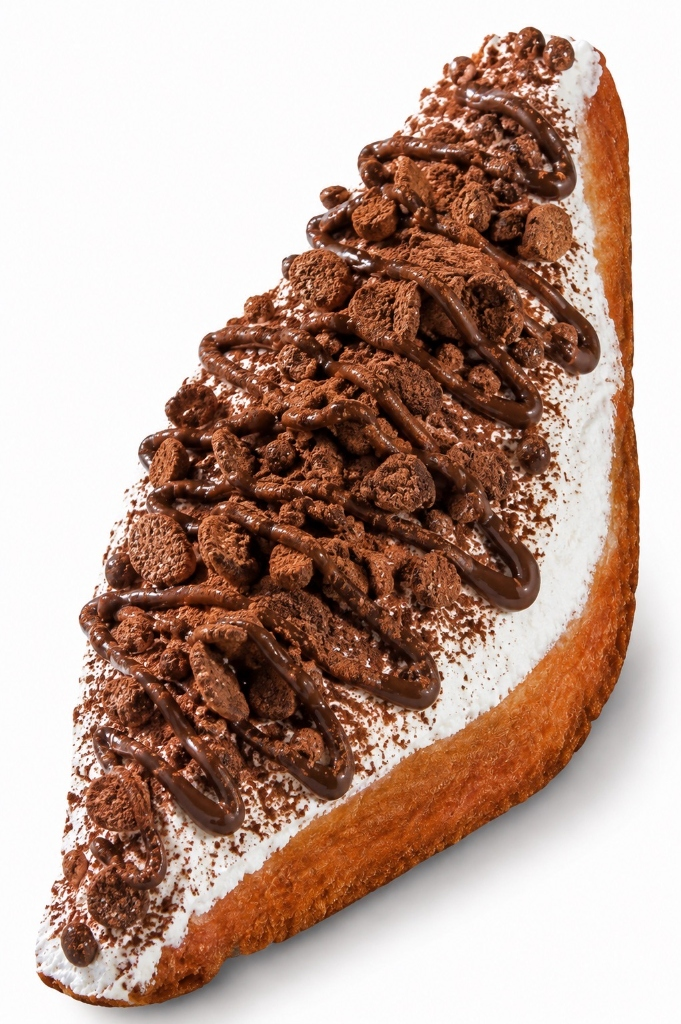
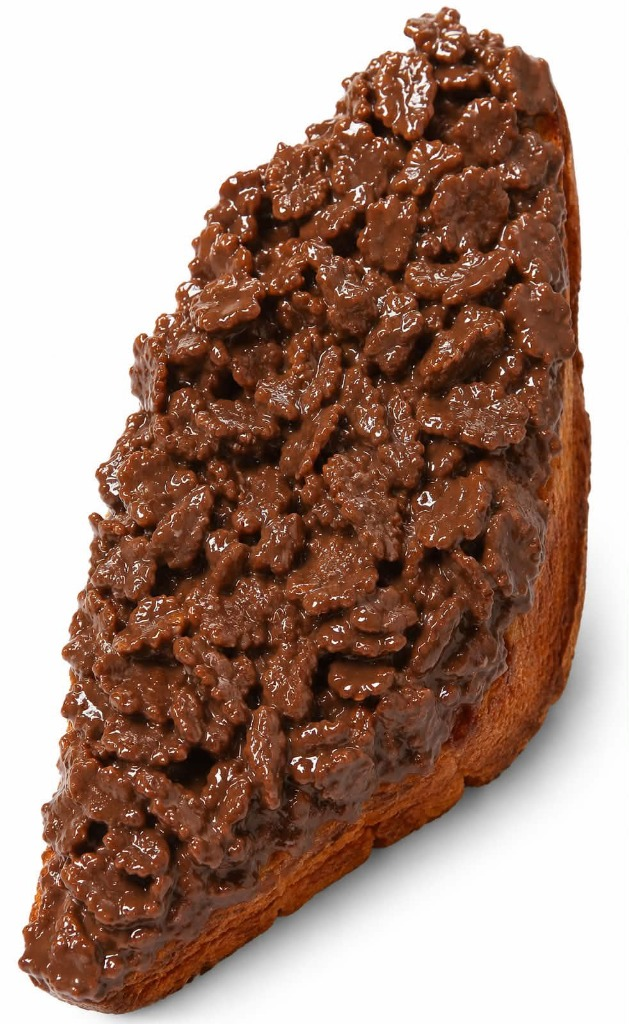
Update studio photos for chocolate & choc-crunchy, add matcha-strawberry menu (40B)

diff --git a/admin.html b/admin.html
@@ -122,13 +122,14 @@ const MENU_ITEMS=[
   {name:"คัสตาร์ดหน้าไหม้",emoji:"🍮"},
   {name:"ช็อกกล้วย",emoji:"🍌"},
   {name:"ครีมสตรอเบอรี่",emoji:"🍓"},
+  {name:"ช็อกสตรอ",emoji:"🍓"},
+  {name:"มัทฉะสตอ",emoji:"🍓"},
   {name:"ช็อกโกแลตดูไบ",emoji:"💚"},
   {name:"บิสคอฟครันชี่",emoji:"🍪"},
   {name:"Shine Muscat Yogurt",emoji:"🍇"},
   {name:"Mallow Melt",emoji:"🔥"},
   {name:"โอริโอ้",emoji:"🍪"},
-  {name:"ช็อกครันชี่",emoji:"🍫"},
-  {name:"ช็อกสตรอ",emoji:"🍓"},
+  {name:"ช็อกครั้นชี่",emoji:"🍫"},
   {name:"Mint Chocolate",emoji:"🍃"},
 ];
 let _ac=null; // audio context สำหรับเสียงแจ้งเตือน
@@ -163,7 +164,14 @@ function thaiDate(){return new Date(Date.now()+7*3600*1000).toISOString().slice(
 const dateEl=document.getElementById('date');
 
 let rows=[]; let menuAvail={};
-function isAvail(name){ return menuAvail[name]!==false; } // ไม่มี row = พร้อมขาย
+function isAvail(name){
+  if (name === "ช็อกครั้นชี่") {
+    if (menuAvail["ช็อกครั้นชี่"] !== undefined) return menuAvail["ช็อกครั้นชี่"] !== false;
+    if (menuAvail["ช็อกครันชี่"] !== undefined) return menuAvail["ช็อกครันชี่"] !== false;
+    return true;
+  }
+  return menuAvail[name]!==false;
+} // ไม่มี row = พร้อมขาย
 async function load(){
   const d=dateEl.value||thaiDate();
   const [o,ms]=await Promise.all([
@@ -192,8 +200,13 @@ function renderMenuPanel(){
 async function toggleMenu(name){
   const prev=isAvail(name);
   const next=!prev;
-  menuAvail[name]=next; renderMenuPanel();
+  menuAvail[name]=next;
+  if(name==="ช็อกครั้นชี่") menuAvail["ช็อกครันชี่"]=next;
+  renderMenuPanel();
   const {error}=await supa.from('menu_state').upsert({item:name,available:next,updated_at:new Date().toISOString()},{onConflict:'item'});
+  if(name==="ช็อกครั้นชี่"){
+    await supa.from('menu_state').upsert({item:"ช็อกครันชี่",available:next,updated_at:new Date().toISOString()},{onConflict:'item'});
+  }
   if(error){alert('เปลี่ยนสถานะเมนูไม่สำเร็จ: '+error.message+'\n(ยังไม่ได้รัน schema-v5.sql ใน Supabase?)'); menuAvail[name]=prev; renderMenuPanel();}
 }
 function fmtTime(ts){return new Date(ts).toLocaleTimeString('th-TH',{hour:'2-digit',minute:'2-digit',timeZone:'Asia/Bangkok'});}

diff --git a/index-v2.html b/index-v2.html
@@ -310,13 +310,14 @@ const MENU=[
     {name:"คัสตาร์ดหน้าไหม้", price:40, emoji:"🍮", img:"assets/menu/custard.jpg"},
     {name:"ช็อกกล้วย", price:40, emoji:"🍌", img:"assets/menu/chocbanana.jpg"},
     {name:"ครีมสตรอเบอรี่", price:40, emoji:"🍓", img:"assets/menu/strawberry.jpg"},
+    {name:"ช็อกสตรอ", price:40, emoji:"🍓", tag:"ใหม่", img:"assets/menu/choc-straw.jpg"},
+    {name:"มัทฉะสตอ", price:40, emoji:"🍓", tag:"ใหม่", img:"assets/menu/matcha-straw.jpg"},
     {name:"ช็อกโกแลตดูไบ", price:50, emoji:"💚", tag:"ใหม่", img:"assets/menu/dubai.jpg"},
     {name:"บิสคอฟครันชี่", price:40, emoji:"🍪", tag:"ใหม่", img:"assets/menu/biscoff.jpg"},
     {name:"Shine Muscat Yogurt", price:45, emoji:"🍇", tag:"ใหม่", img:"assets/menu/shine-muscat.jpg"},
     {name:"Mallow Melt", price:45, emoji:"🔥", tag:"ใหม่", img:"assets/menu/mallow-melt.jpg"},
     {name:"โอริโอ้", price:40, emoji:"🍪", tag:"ใหม่", img:"assets/menu/oreo.jpg"},
-    {name:"ช็อกครันชี่", price:40, emoji:"🍫", tag:"ใหม่", img:"assets/menu/choc-crunchy.jpg"},
-    {name:"ช็อกสตรอ", price:40, emoji:"🍓", tag:"ใหม่", img:"assets/menu/choc-straw.jpg"},
+    {name:"ช็อกครั้นชี่", price:40, emoji:"🍫", tag:"ใหม่", img:"assets/menu/choc-crunchy.jpg"},
     {name:"Mint Chocolate", price:45, emoji:"🍃", tag:"ใหม่", img:"assets/menu/mint-chocolate.jpg"},
   ]},
 ];
@@ -330,7 +331,14 @@ const ZONES=[
   {label:"หอพักข้างมอ/รพ.กำแพงแสน", fee:30},
 ];
 const qty={}; let slipFile=null; let menuAvail={};
-function isAvail(name){ return menuAvail[name]!==false; } // ไม่มี row = พร้อมขาย
+function isAvail(name){
+  if (name === "ช็อกครั้นชี่") {
+    if (menuAvail["ช็อกครั้นชี่"] !== undefined) return menuAvail["ช็อกครั้นชี่"] !== false;
+    if (menuAvail["ช็อกครันชี่"] !== undefined) return menuAvail["ช็อกครันชี่"] !== false;
+    return true;
+  }
+  return menuAvail[name]!==false;
+} // ไม่มี row = พร้อมขาย
 
 // zone select
 const zoneEl=document.getElementById('f-zone');

diff --git a/index.html b/index.html
@@ -310,13 +310,14 @@ const MENU=[
     {name:"คัสตาร์ดหน้าไหม้", price:40, emoji:"🍮", img:"assets/menu/custard.jpg"},
     {name:"ช็อกกล้วย", price:40, emoji:"🍌", img:"assets/menu/chocbanana.jpg"},
     {name:"ครีมสตรอเบอรี่", price:40, emoji:"🍓", img:"assets/menu/strawberry.jpg"},
+    {name:"ช็อกสตรอ", price:40, emoji:"🍓", tag:"ใหม่", img:"assets/menu/choc-straw.jpg"},
+    {name:"มัทฉะสตอ", price:40, emoji:"🍓", tag:"ใหม่", img:"assets/menu/matcha-straw.jpg"},
     {name:"ช็อกโกแลตดูไบ", price:50, emoji:"💚", tag:"ใหม่", img:"assets/menu/dubai.jpg"},
     {name:"บิสคอฟครันชี่", price:40, emoji:"🍪", tag:"ใหม่", img:"assets/menu/biscoff.jpg"},
     {name:"Shine Muscat Yogurt", price:45, emoji:"🍇", tag:"ใหม่", img:"assets/menu/shine-muscat.jpg"},
     {name:"Mallow Melt", price:45, emoji:"🔥", tag:"ใหม่", img:"assets/menu/mallow-melt.jpg"},
     {name:"โอริโอ้", price:40, emoji:"🍪", tag:"ใหม่", img:"assets/menu/oreo.jpg"},
-    {name:"ช็อกครันชี่", price:40, emoji:"🍫", tag:"ใหม่", img:"assets/menu/choc-crunchy.jpg"},
-    {name:"ช็อกสตรอ", price:40, emoji:"🍓", tag:"ใหม่", img:"assets/menu/choc-straw.jpg"},
+    {name:"ช็อกครั้นชี่", price:40, emoji:"🍫", tag:"ใหม่", img:"assets/menu/choc-crunchy.jpg"},
     {name:"Mint Chocolate", price:45, emoji:"🍃", tag:"ใหม่", img:"assets/menu/mint-chocolate.jpg"},
   ]},
 ];
@@ -330,7 +331,14 @@ const ZONES=[
   {label:"หอพักข้างมอ/รพ.กำแพงแสน", fee:30},
 ];
 const qty={}; let slipFile=null; let menuAvail={};
-function isAvail(name){ return menuAvail[name]!==false; } // ไม่มี row = พร้อมขาย
+function isAvail(name){
+  if (name === "ช็อกครั้นชี่") {
+    if (menuAvail["ช็อกครั้นชี่"] !== undefined) return menuAvail["ช็อกครั้นชี่"] !== false;
+    if (menuAvail["ช็อกครันชี่"] !== undefined) return menuAvail["ช็อกครันชี่"] !== false;
+    return true;
+  }
+  return menuAvail[name]!==false;
+} // ไม่มี row = พร้อมขาย
 
 // zone select
 const zoneEl=document.getElementById('f-zone');
